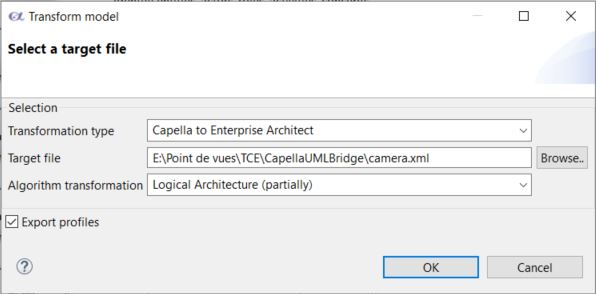
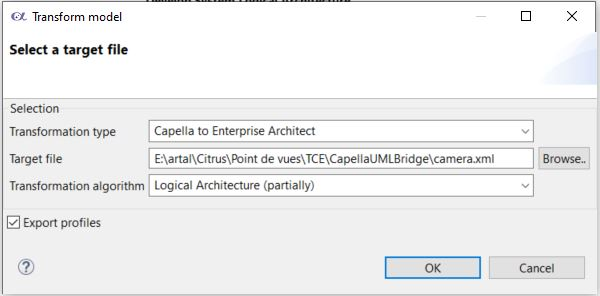
change Algorithm Transformation to Transformation algorithm + update screeshot of the documentation

Changed region(s): [[0.0, 0.0, 1.0, 1.0]]

diff --git a/Plugins/com.artal.capella.mapping/src/com/artal/capella/mapping/ui/CapellaMappingDialog.java b/Plugins/com.artal.capella.mapping/src/com/artal/capella/mapping/ui/CapellaMappingDialog.java
@@ -195,7 +195,7 @@ public class CapellaMappingDialog extends TitleAreaDialog {
 	public ComboViewer createMixCombo(Group selectGroup) {
 		Label mixLabel = new Label(selectGroup, SWT.NONE);
 		mixLabel.setLayoutData(new GridData(GridData.FILL_HORIZONTAL));
-		mixLabel.setText("Algorithm transformation");
+		mixLabel.setText("Transformation algorithm");
 
 		ComboViewer combo = new ComboViewer(selectGroup, SWT.NONE);
 		combo.getCombo().setLayoutData(new GridData(GridData.FILL_HORIZONTAL));
